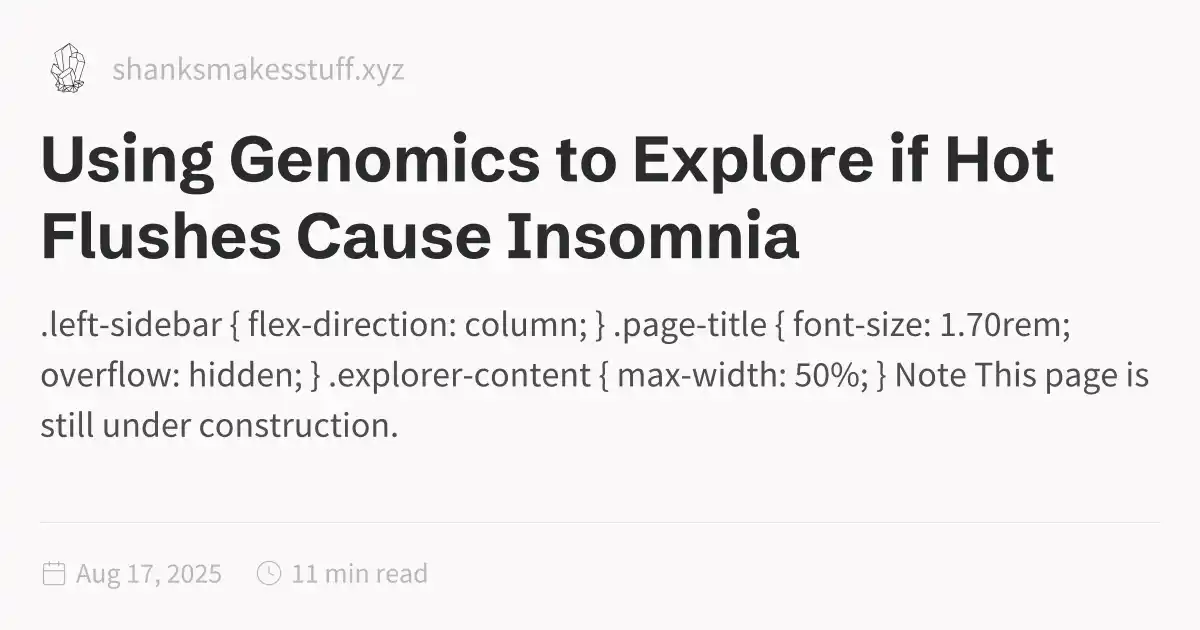
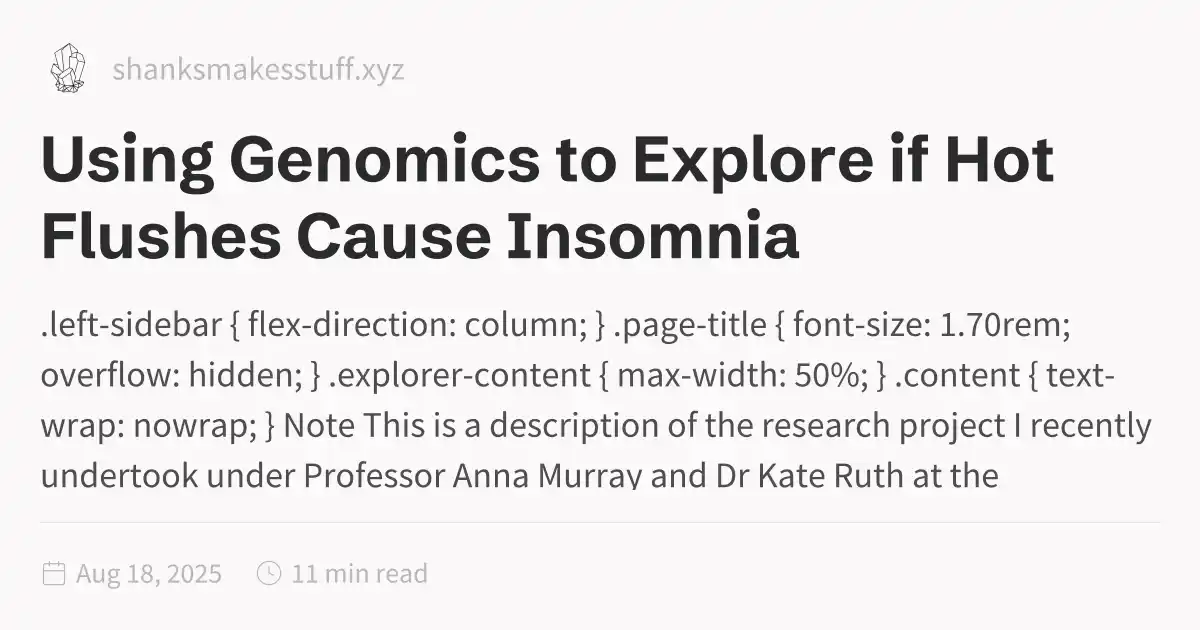
2025-08-22_123

Changed region(s): [[0.0308, 0.7238, 0.8325, 0.7841], [0.0308, 0.6333, 0.9558, 0.6937], [0.74, 0.573, 0.9558, 0.6333]]

diff --git a/Blog/Using-Genomics-to-Explore-if-Hot-Flushes-Cause-Insomnia.html b/Blog/Using-Genomics-to-Explore-if-Hot-Flushes-Cause-Insomnia.html
@@ -1,5 +1,5 @@
 <!DOCTYPE html>
-<html lang="en"><head><title>Using Genomics to Explore if Hot Flushes Cause Insomnia</title><meta charset="utf-8"/><link rel="preconnect" href="https://fonts.googleapis.com"/><link rel="preconnect" href="https://fonts.gstatic.com"/><link rel="stylesheet" href="https://fonts.googleapis.com/css2?family=Schibsted Grotesk:wght@400;700&amp;family=Source Sans Pro:ital,wght@0,400;0,600;1,400;1,600&amp;family=IBM Plex Mono:wght@400;600&amp;display=swap"/><link rel="preconnect" href="https://cdnjs.cloudflare.com" crossorigin="anonymous"/><meta name="viewport" content="width=device-width, initial-scale=1.0"/><meta name="og:site_name" content="ShanksMakesStuff"/><meta property="og:title" content="Using Genomics to Explore if Hot Flushes Cause Insomnia"/><meta property="og:type" content="website"/><meta name="twitter:card" content="summary_large_image"/><meta name="twitter:title" content="Using Genomics to Explore if Hot Flushes Cause Insomnia"/><meta name="twitter:description" content=".left-sidebar { flex-direction: column; } .page-title { font-size: 1.70rem; overflow: hidden; } .explorer-content { max-width: 50%; } Note This page is still under construction."/><meta property="og:description" content=".left-sidebar { flex-direction: column; } .page-title { font-size: 1.70rem; overflow: hidden; } .explorer-content { max-width: 50%; } Note This page is still under construction."/><meta property="og:image:alt" content=".left-sidebar { flex-direction: column; } .page-title { font-size: 1.70rem; overflow: hidden; } .explorer-content { max-width: 50%; } Note This page is still under construction."/><meta property="twitter:domain" content="shanksmakesstuff.xyz"/><meta property="og:url" content="https://shanksmakesstuff.xyz/Blog/Using-Genomics-to-Explore-if-Hot-Flushes-Cause-Insomnia"/><meta property="twitter:url" content="https://shanksmakesstuff.xyz/Blog/Using-Genomics-to-Explore-if-Hot-Flushes-Cause-Insomnia"/><link rel="icon" href="../static/icon.png"/><meta name="description" content=".left-sidebar { flex-direction: column; } .page-title { font-size: 1.70rem; overflow: hidden; } .explorer-content { max-width: 50%; } Note This page is still under construction."/><meta name="generator" content="Quartz"/><link href="../index.css" rel="stylesheet" type="text/css" spa-preserve/><style>.expand-button {
+<html lang="en"><head><title>Using Genomics to Explore if Hot Flushes Cause Insomnia</title><meta charset="utf-8"/><link rel="preconnect" href="https://fonts.googleapis.com"/><link rel="preconnect" href="https://fonts.gstatic.com"/><link rel="stylesheet" href="https://fonts.googleapis.com/css2?family=Schibsted Grotesk:wght@400;700&amp;family=Source Sans Pro:ital,wght@0,400;0,600;1,400;1,600&amp;family=IBM Plex Mono:wght@400;600&amp;display=swap"/><link rel="preconnect" href="https://cdnjs.cloudflare.com" crossorigin="anonymous"/><meta name="viewport" content="width=device-width, initial-scale=1.0"/><meta name="og:site_name" content="ShanksMakesStuff"/><meta property="og:title" content="Using Genomics to Explore if Hot Flushes Cause Insomnia"/><meta property="og:type" content="website"/><meta name="twitter:card" content="summary_large_image"/><meta name="twitter:title" content="Using Genomics to Explore if Hot Flushes Cause Insomnia"/><meta name="twitter:description" content=".left-sidebar { flex-direction: column; } .page-title { font-size: 1.70rem; overflow: hidden; } .explorer-content { max-width: 50%; } .content { text-wrap: nowrap; } Note This is a description of the research project I recently undertook under Professor Anna Murray and Dr Kate Ruth at the Universit..."/><meta property="og:description" content=".left-sidebar { flex-direction: column; } .page-title { font-size: 1.70rem; overflow: hidden; } .explorer-content { max-width: 50%; } .content { text-wrap: nowrap; } Note This is a description of the research project I recently undertook under Professor Anna Murray and Dr Kate Ruth at the Universit..."/><meta property="og:image:alt" content=".left-sidebar { flex-direction: column; } .page-title { font-size: 1.70rem; overflow: hidden; } .explorer-content { max-width: 50%; } .content { text-wrap: nowrap; } Note This is a description of the research project I recently undertook under Professor Anna Murray and Dr Kate Ruth at the Universit..."/><meta property="twitter:domain" content="shanksmakesstuff.xyz"/><meta property="og:url" content="https://shanksmakesstuff.xyz/Blog/Using-Genomics-to-Explore-if-Hot-Flushes-Cause-Insomnia"/><meta property="twitter:url" content="https://shanksmakesstuff.xyz/Blog/Using-Genomics-to-Explore-if-Hot-Flushes-Cause-Insomnia"/><link rel="icon" href="../static/icon.png"/><meta name="description" content=".left-sidebar { flex-direction: column; } .page-title { font-size: 1.70rem; overflow: hidden; } .explorer-content { max-width: 50%; } .content { text-wrap: nowrap; } Note This is a description of the research project I recently undertook under Professor Anna Murray and Dr Kate Ruth at the Universit..."/><meta name="generator" content="Quartz"/><link href="../index.css" rel="stylesheet" type="text/css" spa-preserve/><style>.expand-button {
   position: absolute;
   display: flex;
   float: right;
@@ -116,7 +116,7 @@ pre:hover > .expand-button {
   padding: 0 12px;
   font-size: 14px;
 }
[2 lines of base64/hex data omitted]
 	<style> 
 		.left-sidebar { 
 			flex-direction: column; 
@@ -128,6 +128,9 @@ pre:hover > .expand-button {
 		.explorer-content { 
 			max-width: 50%; 
 		}
+		.content { 
+			text-wrap: nowrap; 
+		}
 	</style> 
  
 <blockquote class="callout note" data-callout="note" data-callout-metadata=": ">
@@ -138,7 +141,7 @@ pre:hover > .expand-button {
                 </div>
 <div class="callout-content">
 <div class="callout-content-inner">
-<p>This page is still under construction. This is a description of the research project I recently undertook under Professor Anna Murray and Dr Kate Ruth at the University of Exeter. The project was funded by the <a href="https://bsra.org.uk/" class="external">British Society for Research on Ageing<svg aria-hidden="true" class="external-icon" style="max-width:0.8em;max-height:0.8em;" viewBox="0 0 512 512"><path d="M320 0H288V64h32 82.7L201.4 265.4 178.7 288 224 333.3l22.6-22.6L448 109.3V192v32h64V192 32 0H480 320zM32 32H0V64 480v32H32 456h32V480 352 320H424v32 96H64V96h96 32V32H160 32z"></path></svg></a> through their Summer Studentship Grant 2025.</p>
+<p>This is a description of the research project I recently undertook under Professor Anna Murray and Dr Kate Ruth at the University of Exeter. The project was funded by the <a href="https://bsra.org.uk/" class="external">British Society for Research on Ageing<svg aria-hidden="true" class="external-icon" style="max-width:0.8em;max-height:0.8em;" viewBox="0 0 512 512"><path d="M320 0H288V64h32 82.7L201.4 265.4 178.7 288 224 333.3l22.6-22.6L448 109.3V192v32h64V192 32 0H480 320zM32 32H0V64 480v32H32 456h32V480 352 320H424v32 96H64V96h96 32V32H160 32z"></path></svg></a> through their Summer Studentship Grant 2025.</p>
 </div>
 </div>
 </blockquote>

diff --git a/Hey!.html b/Hey!.html
@@ -1,5 +1,5 @@
 <!DOCTYPE html>
-<html lang="en"><head><title>Hey!</title><meta charset="utf-8"/><link rel="preconnect" href="https://fonts.googleapis.com"/><link rel="preconnect" href="https://fonts.gstatic.com"/><link rel="stylesheet" href="https://fonts.googleapis.com/css2?family=Schibsted Grotesk:wght@400;700&amp;family=Source Sans Pro:ital,wght@0,400;0,600;1,400;1,600&amp;family=IBM Plex Mono:wght@400;600&amp;display=swap"/><link rel="preconnect" href="https://cdnjs.cloudflare.com" crossorigin="anonymous"/><meta name="viewport" content="width=device-width, initial-scale=1.0"/><meta name="og:site_name" content="ShanksMakesStuff"/><meta property="og:title" content="Hey!"/><meta property="og:type" content="website"/><meta name="twitter:card" content="summary_large_image"/><meta name="twitter:title" content="Hey!"/><meta name="twitter:description" content=".page-title { font-size: 1.70rem; overflow: hidden; } .explorer-content { max-width: 50%; } ."/><meta property="og:description" content=".page-title { font-size: 1.70rem; overflow: hidden; } .explorer-content { max-width: 50%; } ."/><meta property="og:image:alt" content=".page-title { font-size: 1.70rem; overflow: hidden; } .explorer-content { max-width: 50%; } ."/><meta property="twitter:domain" content="shanksmakesstuff.xyz"/><meta property="og:url" content="https://shanksmakesstuff.xyz/Hey!"/><meta property="twitter:url" content="https://shanksmakesstuff.xyz/Hey!"/><link rel="icon" href="./static/icon.png"/><meta name="description" content=".page-title { font-size: 1.70rem; overflow: hidden; } .explorer-content { max-width: 50%; } ."/><meta name="generator" content="Quartz"/><link href="./index.css" rel="stylesheet" type="text/css" spa-preserve/><style>.expand-button {
+<html lang="en"><head><title>Hey!</title><meta charset="utf-8"/><link rel="preconnect" href="https://fonts.googleapis.com"/><link rel="preconnect" href="https://fonts.gstatic.com"/><link rel="stylesheet" href="https://fonts.googleapis.com/css2?family=Schibsted Grotesk:wght@400;700&amp;family=Source Sans Pro:ital,wght@0,400;0,600;1,400;1,600&amp;family=IBM Plex Mono:wght@400;600&amp;display=swap"/><link rel="preconnect" href="https://cdnjs.cloudflare.com" crossorigin="anonymous"/><meta name="viewport" content="width=device-width, initial-scale=1.0"/><meta name="og:site_name" content="ShanksMakesStuff"/><meta property="og:title" content="Hey!"/><meta property="og:type" content="website"/><meta name="twitter:card" content="summary_large_image"/><meta name="twitter:title" content="Hey!"/><meta name="twitter:description" content="New Using Genomics to Explore if Hot Flushes Cause Insomnia | Read it here .page-title { font-size: 1.70rem; overflow: hidden; } .explorer-content { max-width: 50%; } ."/><meta property="og:description" content="New Using Genomics to Explore if Hot Flushes Cause Insomnia | Read it here .page-title { font-size: 1.70rem; overflow: hidden; } .explorer-content { max-width: 50%; } ."/><meta property="og:image:alt" content="New Using Genomics to Explore if Hot Flushes Cause Insomnia | Read it here .page-title { font-size: 1.70rem; overflow: hidden; } .explorer-content { max-width: 50%; } ."/><meta property="twitter:domain" content="shanksmakesstuff.xyz"/><meta property="og:url" content="https://shanksmakesstuff.xyz/Hey!"/><meta property="twitter:url" content="https://shanksmakesstuff.xyz/Hey!"/><link rel="icon" href="./static/icon.png"/><meta name="description" content="New Using Genomics to Explore if Hot Flushes Cause Insomnia | Read it here .page-title { font-size: 1.70rem; overflow: hidden; } .explorer-content { max-width: 50%; } ."/><meta name="generator" content="Quartz"/><link href="./index.css" rel="stylesheet" type="text/css" spa-preserve/><style>.expand-button {
   position: absolute;
   display: flex;
   float: right;
@@ -116,7 +116,19 @@ pre:hover > .expand-button {
   padding: 0 12px;
   font-size: 14px;
 }
[2 lines of base64/hex data omitted]
+<div class="callout-title">
+                  <div class="callout-icon"></div>
+                  <div class="callout-title-inner"><p>New</p></div>
+                  
+                </div>
+<div class="callout-content">
+<div class="callout-content-inner">
+<p>Using Genomics to Explore if Hot Flushes Cause Insomnia | Read it <a href="https://www.shanksmakesstuff.xyz/Blog/Using-Genomics-to-Explore-if-Hot-Flushes-Cause-Insomnia" class="external">here<svg aria-hidden="true" class="external-icon" style="max-width:0.8em;max-height:0.8em;" viewBox="0 0 512 512"><path d="M320 0H288V64h32 82.7L201.4 265.4 178.7 288 224 333.3l22.6-22.6L448 109.3V192v32h64V192 32 0H480 320zM32 32H0V64 480v32H32 456h32V480 352 320H424v32 96H64V96h96 32V32H160 32z"></path></svg></a></p>
+</div>
+</div>
+</blockquote>
+ 
 	<style> 
 		.page-title { 
 			font-size: 1.70rem; 
@@ -127,6 +139,9 @@ pre:hover > .expand-button {
 		}
 		. custom-div { 
 			font-size: 1.50rem; 
+		}
+		.content { 
+			text-wrap: nowrap; 
 		}
 	</style> 
  

diff --git a/Blog/index.html b/Blog/index.html
@@ -116,6 +116,6 @@ pre:hover > .expand-button {
   padding: 0 12px;
   font-size: 14px;
 }
[2 lines of base64/hex data omitted]
 </script><script type="module">function f(i,e){if(!i)return;function r(o){o.target===this&&(o.preventDefault(),o.stopPropagation(),e())}function t(o){o.key.startsWith("Esc")&&(o.preventDefault(),e())}i?.addEventListener("click",r),window.addCleanup(()=>i?.removeEventListener("click",r)),document.addEventListener("keydown",t),window.addCleanup(()=>document.removeEventListener("keydown",t))}function y(i){for(;i.firstChild;)i.removeChild(i.firstChild)}var h=class{constructor(e,r){this.container=e;this.content=r;this.setupEventListeners(),this.setupNavigationControls(),this.resetTransform()}isDragging=!1;startPan={x:0,y:0};currentPan={x:0,y:0};scale=1;MIN_SCALE=.5;MAX_SCALE=3;cleanups=[];setupEventListeners(){let e=this.onMouseDown.bind(this),r=this.onMouseMove.bind(this),t=this.onMouseUp.bind(this),o=this.resetTransform.bind(this);this.container.addEventListener("mousedown",e),document.addEventListener("mousemove",r),document.addEventListener("mouseup",t),window.addEventListener("resize",o),this.cleanups.push(()=>this.container.removeEventListener("mousedown",e),()=>document.removeEventListener("mousemove",r),()=>document.removeEventListener("mouseup",t),()=>window.removeEventListener("resize",o))}cleanup(){for(let e of this.cleanups)e()}setupNavigationControls(){let e=document.createElement("div");e.className="mermaid-controls";let r=this.createButton("+",()=>this.zoom(.1)),t=this.createButton("-",()=>this.zoom(-.1)),o=this.createButton("Reset",()=>this.resetTransform());e.appendChild(t),e.appendChild(o),e.appendChild(r),this.container.appendChild(e)}createButton(e,r){let t=document.createElement("button");return t.textContent=e,t.className="mermaid-control-button",t.addEventListener("click",r),window.addCleanup(()=>t.removeEventListener("click",r)),t}onMouseDown(e){e.button===0&&(this.isDragging=!0,this.startPan={x:e.clientX-this.currentPan.x,y:e.clientY-this.currentPan.y},this.container.style.cursor="grabbing")}onMouseMove(e){this.isDragging&&(e.preventDefault(),this.currentPan={x:e.clientX-this.startPan.x,y:e.clientY-this.startPan.y},this.updateTransform())}onMouseUp(){this.isDragging=!1,this.container.style.cursor="grab"}zoom(e){let r=Math.min(Math.max(this.scale+e,this.MIN_SCALE),this.MAX_SCALE),t=this.content.getBoundingClientRect(),o=t.width/2,n=t.height/2,c=r-this.scale;this.currentPan.x-=o*c,this.currentPan.y-=n*c,this.scale=r,this.updateTransform()}updateTransform(){this.content.style.transform=`translate(${this.currentPan.x}px, ${this.currentPan.y}px) scale(${this.scale})`}resetTransform(){this.scale=1;let e=this.content.querySelector("svg");this.currentPan={x:e.getBoundingClientRect().width/2,y:e.getBoundingClientRect().height/2},this.updateTransform()}},C=["--secondary","--tertiary","--gray","--light","--lightgray","--highlight","--dark","--darkgray","--codeFont"],E;document.addEventListener("nav",async()=>{let e=document.querySelector(".center").querySelectorAll("code.mermaid");if(e.length===0)return;E||=await import("https://cdnjs.cloudflare.com/ajax/libs/mermaid/11.4.0/mermaid.esm.min.mjs");let r=E.default,t=new WeakMap;for(let n of e)t.set(n,n.innerText);async function o(){for(let s of e){s.removeAttribute("data-processed");let a=t.get(s);a&&(s.innerHTML=a)}let n=C.reduce((s,a)=>(s[a]=window.getComputedStyle(document.documentElement).getPropertyValue(a),s),{}),c=document.documentElement.getAttribute("saved-theme")==="dark";r.initialize({startOnLoad:!1,securityLevel:"loose",theme:c?"dark":"base",themeVariables:{fontFamily:n["--codeFont"],primaryColor:n["--light"],primaryTextColor:n["--darkgray"],primaryBorderColor:n["--tertiary"],lineColor:n["--darkgray"],secondaryColor:n["--secondary"],tertiaryColor:n["--tertiary"],clusterBkg:n["--light"],edgeLabelBackground:n["--highlight"]}}),await r.run({nodes:e})}await o(),document.addEventListener("themechange",o),window.addCleanup(()=>document.removeEventListener("themechange",o));for(let n=0;n<e.length;n++){let v=function(){let g=l.querySelector("#mermaid-space"),m=l.querySelector(".mermaid-content");if(!m)return;y(m);let w=c.querySelector("svg").cloneNode(!0);m.appendChild(w),l.classList.add("active"),g.style.cursor="grab",u=new h(g,m)},M=function(){l.classList.remove("active"),u?.cleanup(),u=null},c=e[n],s=c.parentElement,a=s.querySelector(".clipboard-button"),d=s.querySelector(".expand-button"),p=window.getComputedStyle(a),L=a.offsetWidth+parseFloat(p.marginLeft||"0")+parseFloat(p.marginRight||"0");d.style.right=`calc(${L}px + 0.3rem)`,s.prepend(d);let l=s.querySelector("#mermaid-container");if(!l)return;let u=null;d.addEventListener("click",v),f(l,M),window.addCleanup(()=>{u?.cleanup(),d.removeEventListener("click",v)})}});
 </script><script src="https://cdn.jsdelivr.net/npm/katex@0.16.11/dist/contrib/copy-tex.min.js" type="application/javascript"></script><script src="../postscript.js" type="module"></script></html>
